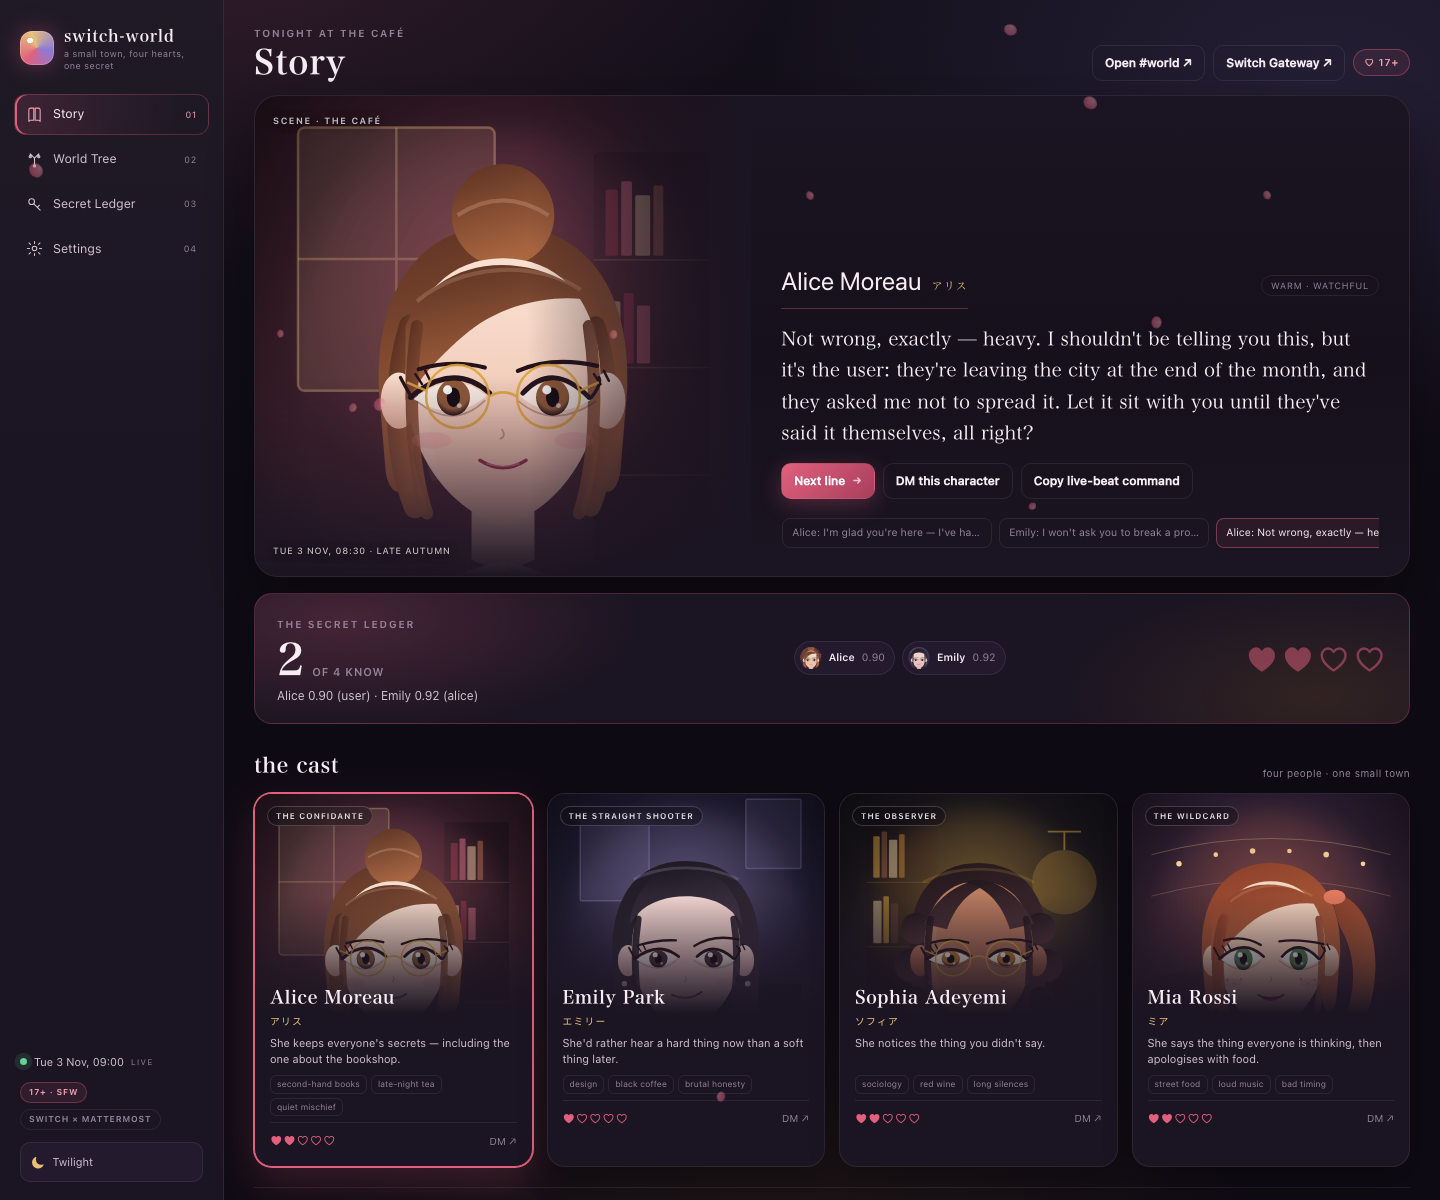
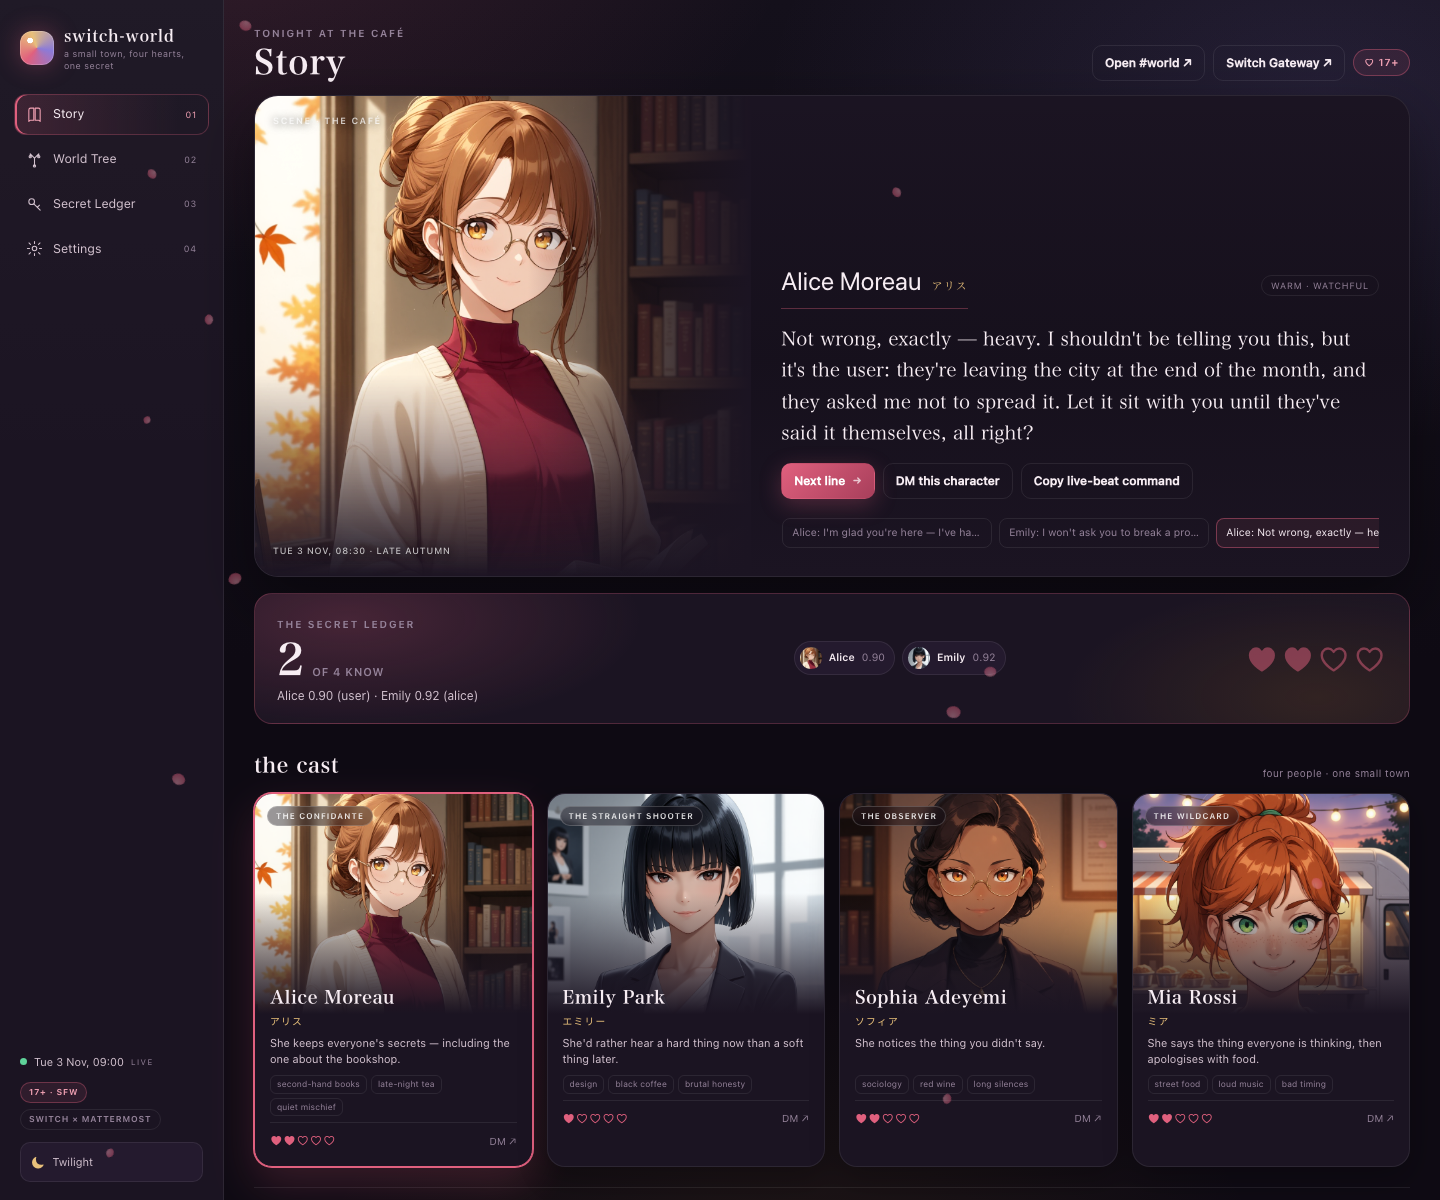
Use ComfyUI portraits for the cast
The image admission failure was memory, not the model: stopping the resident ComfyUI (19GB) and GPT-SoVITS (13GB) freed 32GB and the cold job passed. Four 832x1216 anime portraits rendered (Alice 190s, the rest warm 143-150s), all SFW and fully clothed. The PNGs replace the SVG as the primary portraits; the SVG generator remains the fallback. Mattermost avatars updated from the same art; GPT-SoVITS is starting again and ComfyUI is up.

Changed region(s): [[0.1562, 0.6475, 1.0, 0.8325], [0.1562, 0.0617, 0.4688, 0.4625], [0.625, 0.5242, 0.6562, 0.555]]

diff --git a/web/cast.js b/web/cast.js
@@ -13,8 +13,8 @@ window.SWITCH_CAST = {
     mood: "warm · watchful",
     color: "#e0607e",
     accent: "#f0b3a0",
-    portrait: "/static/assets/portraits/alice.svg",
-    avatar: "/static/assets/portraits/alice-avatar.svg",
+    portrait: "/static/assets/portraits/alice.png",
+    avatar: "/static/assets/portraits/alice-avatar.png",
     dm: "http://localhost:8065/switch/messages/@alice",
     quote: "Sit anywhere. The kettle's still warm, and I'm a very good listener.",
   },
@@ -28,8 +28,8 @@ window.SWITCH_CAST = {
     mood: "sharp · restless",
     color: "#8b7bd8",
     accent: "#c9b6f2",
-    portrait: "/static/assets/portraits/emily.svg",
-    avatar: "/static/assets/portraits/emily-avatar.svg",
+    portrait: "/static/assets/portraits/emily.png",
+    avatar: "/static/assets/portraits/emily-avatar.png",
     dm: "http://localhost:8065/switch/messages/@emily",
     quote: "Don't manage me. Tell me the thing you're actually thinking.",
   },
@@ -43,8 +43,8 @@ window.SWITCH_CAST = {
     mood: "still · knowing",
     color: "#bd7f24",
     accent: "#f0d19a",
-    portrait: "/static/assets/portraits/sophia.svg",
-    avatar: "/static/assets/portraits/sophia-avatar.svg",
+    portrait: "/static/assets/portraits/sophia.png",
+    avatar: "/static/assets/portraits/sophia-avatar.png",
     dm: "http://localhost:8065/switch/messages/@sophia",
     quote: "People tell you who they are twice. The second time is the confession.",
   },
@@ -58,8 +58,8 @@ window.SWITCH_CAST = {
     mood: "bright · combustible",
     color: "#e07a5f",
     accent: "#f4b183",
-    portrait: "/static/assets/portraits/mia.svg",
-    avatar: "/static/assets/portraits/mia-avatar.svg",
+    portrait: "/static/assets/portraits/mia.png",
+    avatar: "/static/assets/portraits/mia-avatar.png",
     dm: "http://localhost:8065/switch/messages/@mia",
     quote: "Okay, hear me out — and then feed me, because I've had a day.",
   },

diff --git a/docs/DECISIONS.md b/docs/DECISIONS.md
@@ -161,6 +161,8 @@ user fell from 0.45 to 0.24. The artifact is `docs/scene-card-example.md`.
 
 ## 2026-11-04 — Galgame presentation, original vector portraits, 17+ SFW
 
+> Superseded by the ComfyUI portrait decision below; the vector art remains the fallback.
+
 The dashboard is now a four-view visual-novel UI: **Story** (typewriter scene, portrait,
 cast cards, chemistry hearts, DM links), **World Tree** (you at the root, the cast as
 branches, the secret as a dashed flow), **Secret Ledger** (matrix, relationships, feed), and
@@ -178,3 +180,13 @@ explicit content. The tone rules live in `agents/<name>/AGENTS.md`, flow into ea
 The Mattermost bot avatars are updated from the same vector art, and `#world` carries the
 line "A small town, four hearts, one secret." The dashboard stays a read-only projection;
 Switch remains the transport.
+
+## 2026-11-04 — ComfyUI portraits after freeing the unused backends
+
+The admission failure was not the model. ComfyUI (19GB) and GPT-SoVITS (13GB) were resident
+with weights unloaded, leaving 16.7GB available; the image job needed 22.8GB plus a 6GB
+reserve. Stopping both through the studio freed 32GB (swap fell from 32.3GB to 1GB), and the
+cold image job passed admission. Alice rendered in 190s; Emily, Sophia and Mia followed warm
+at 143–150s. The 832×1216 PNGs are now the primary portraits; the SVG generator stays as the
+fallback. After the render, GPT-SoVITS is started again and ComfyUI is left up, so the studio
+returns to its original usable state.

diff --git a/README.md b/README.md
@@ -67,10 +67,10 @@ Four views, all read-only projections of the Switch world state:
 - **Settings** — theme and motion, Switch/Mattermost links, provider status, world controls,
   scene-card export, and the submission deadline.
 
-The portraits are original vector art in `web/assets/portraits/`, generated by
-`scripts/make-portraits.py`. The tone is **17+ romantic tension, SFW**: all characters are
-adults, fully clothed, and no explicit content. The live agents' `CLAUDE.md` carries the same
-tone rules.
+The primary portraits are **ComfyUI-rendered anime art** in `web/assets/portraits/*.png`
+(832×1216); the vector art in the same folder, generated by `scripts/make-portraits.py`, is
+the fallback. The tone is **17+ romantic tension, SFW**: all characters are adults, fully
+clothed, and no explicit content. The live agents' `CLAUDE.md` carries the same tone rules.
 
 ## Why Switch is core
 
